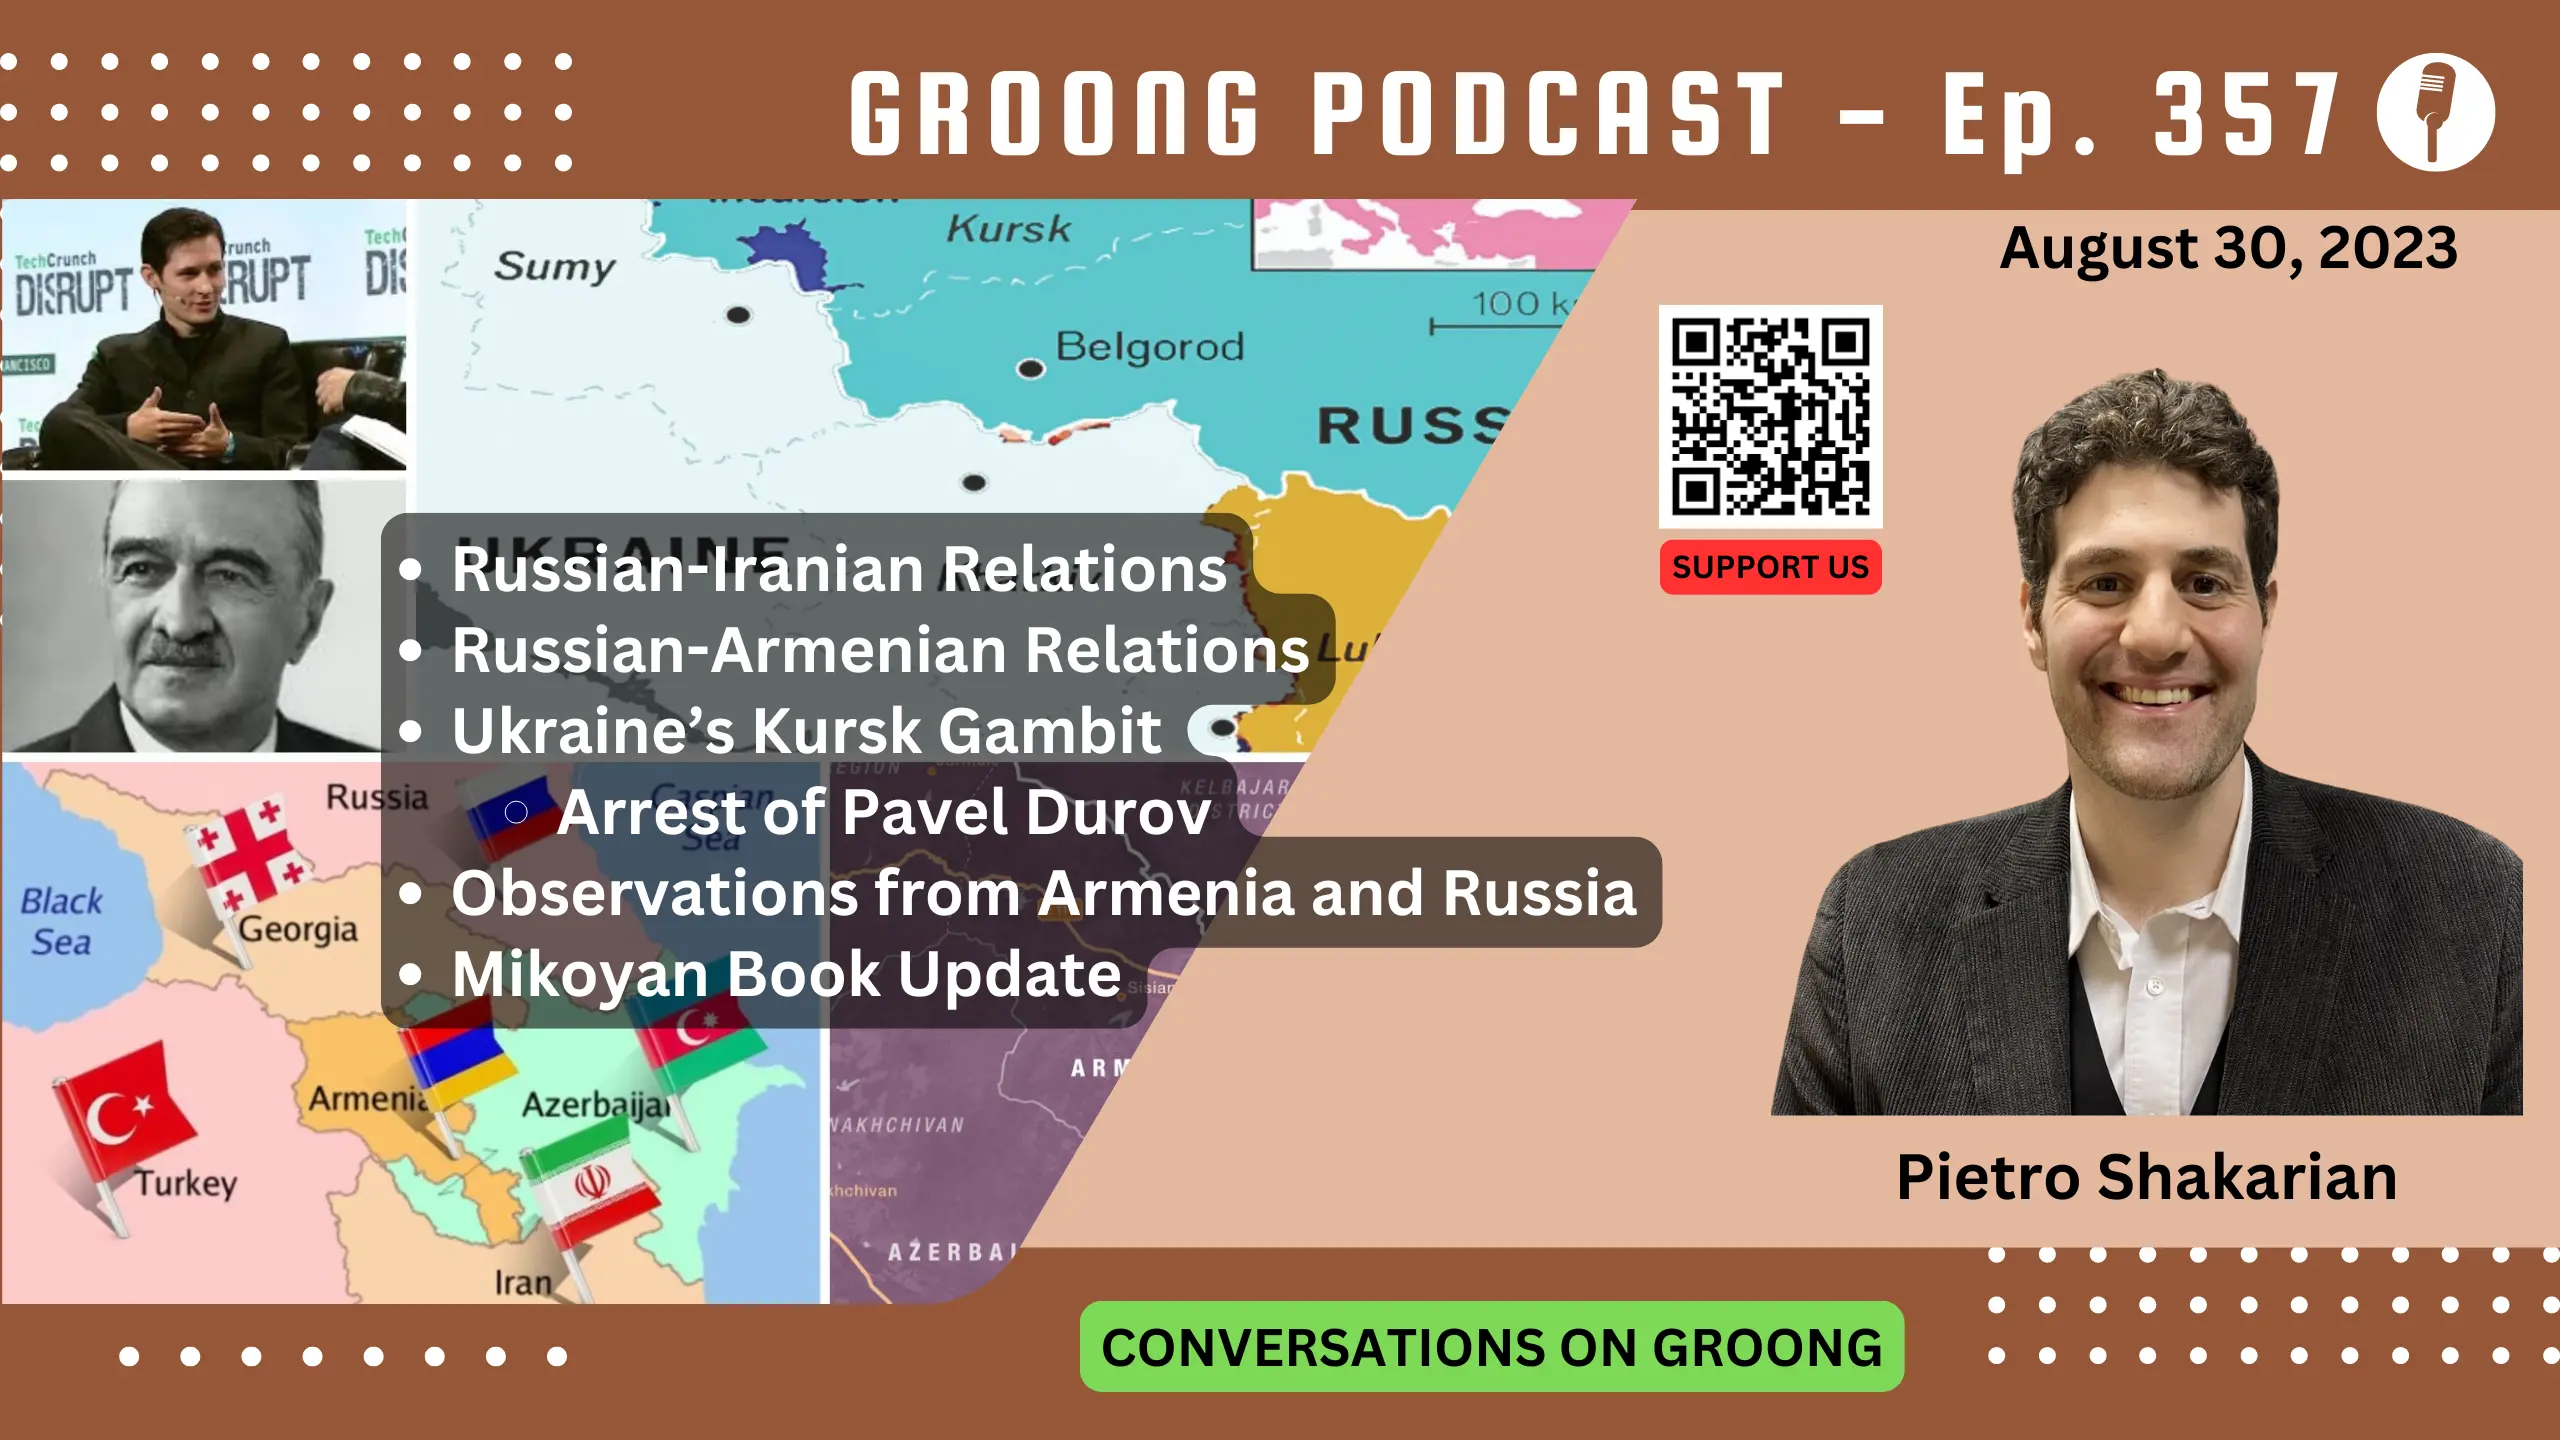
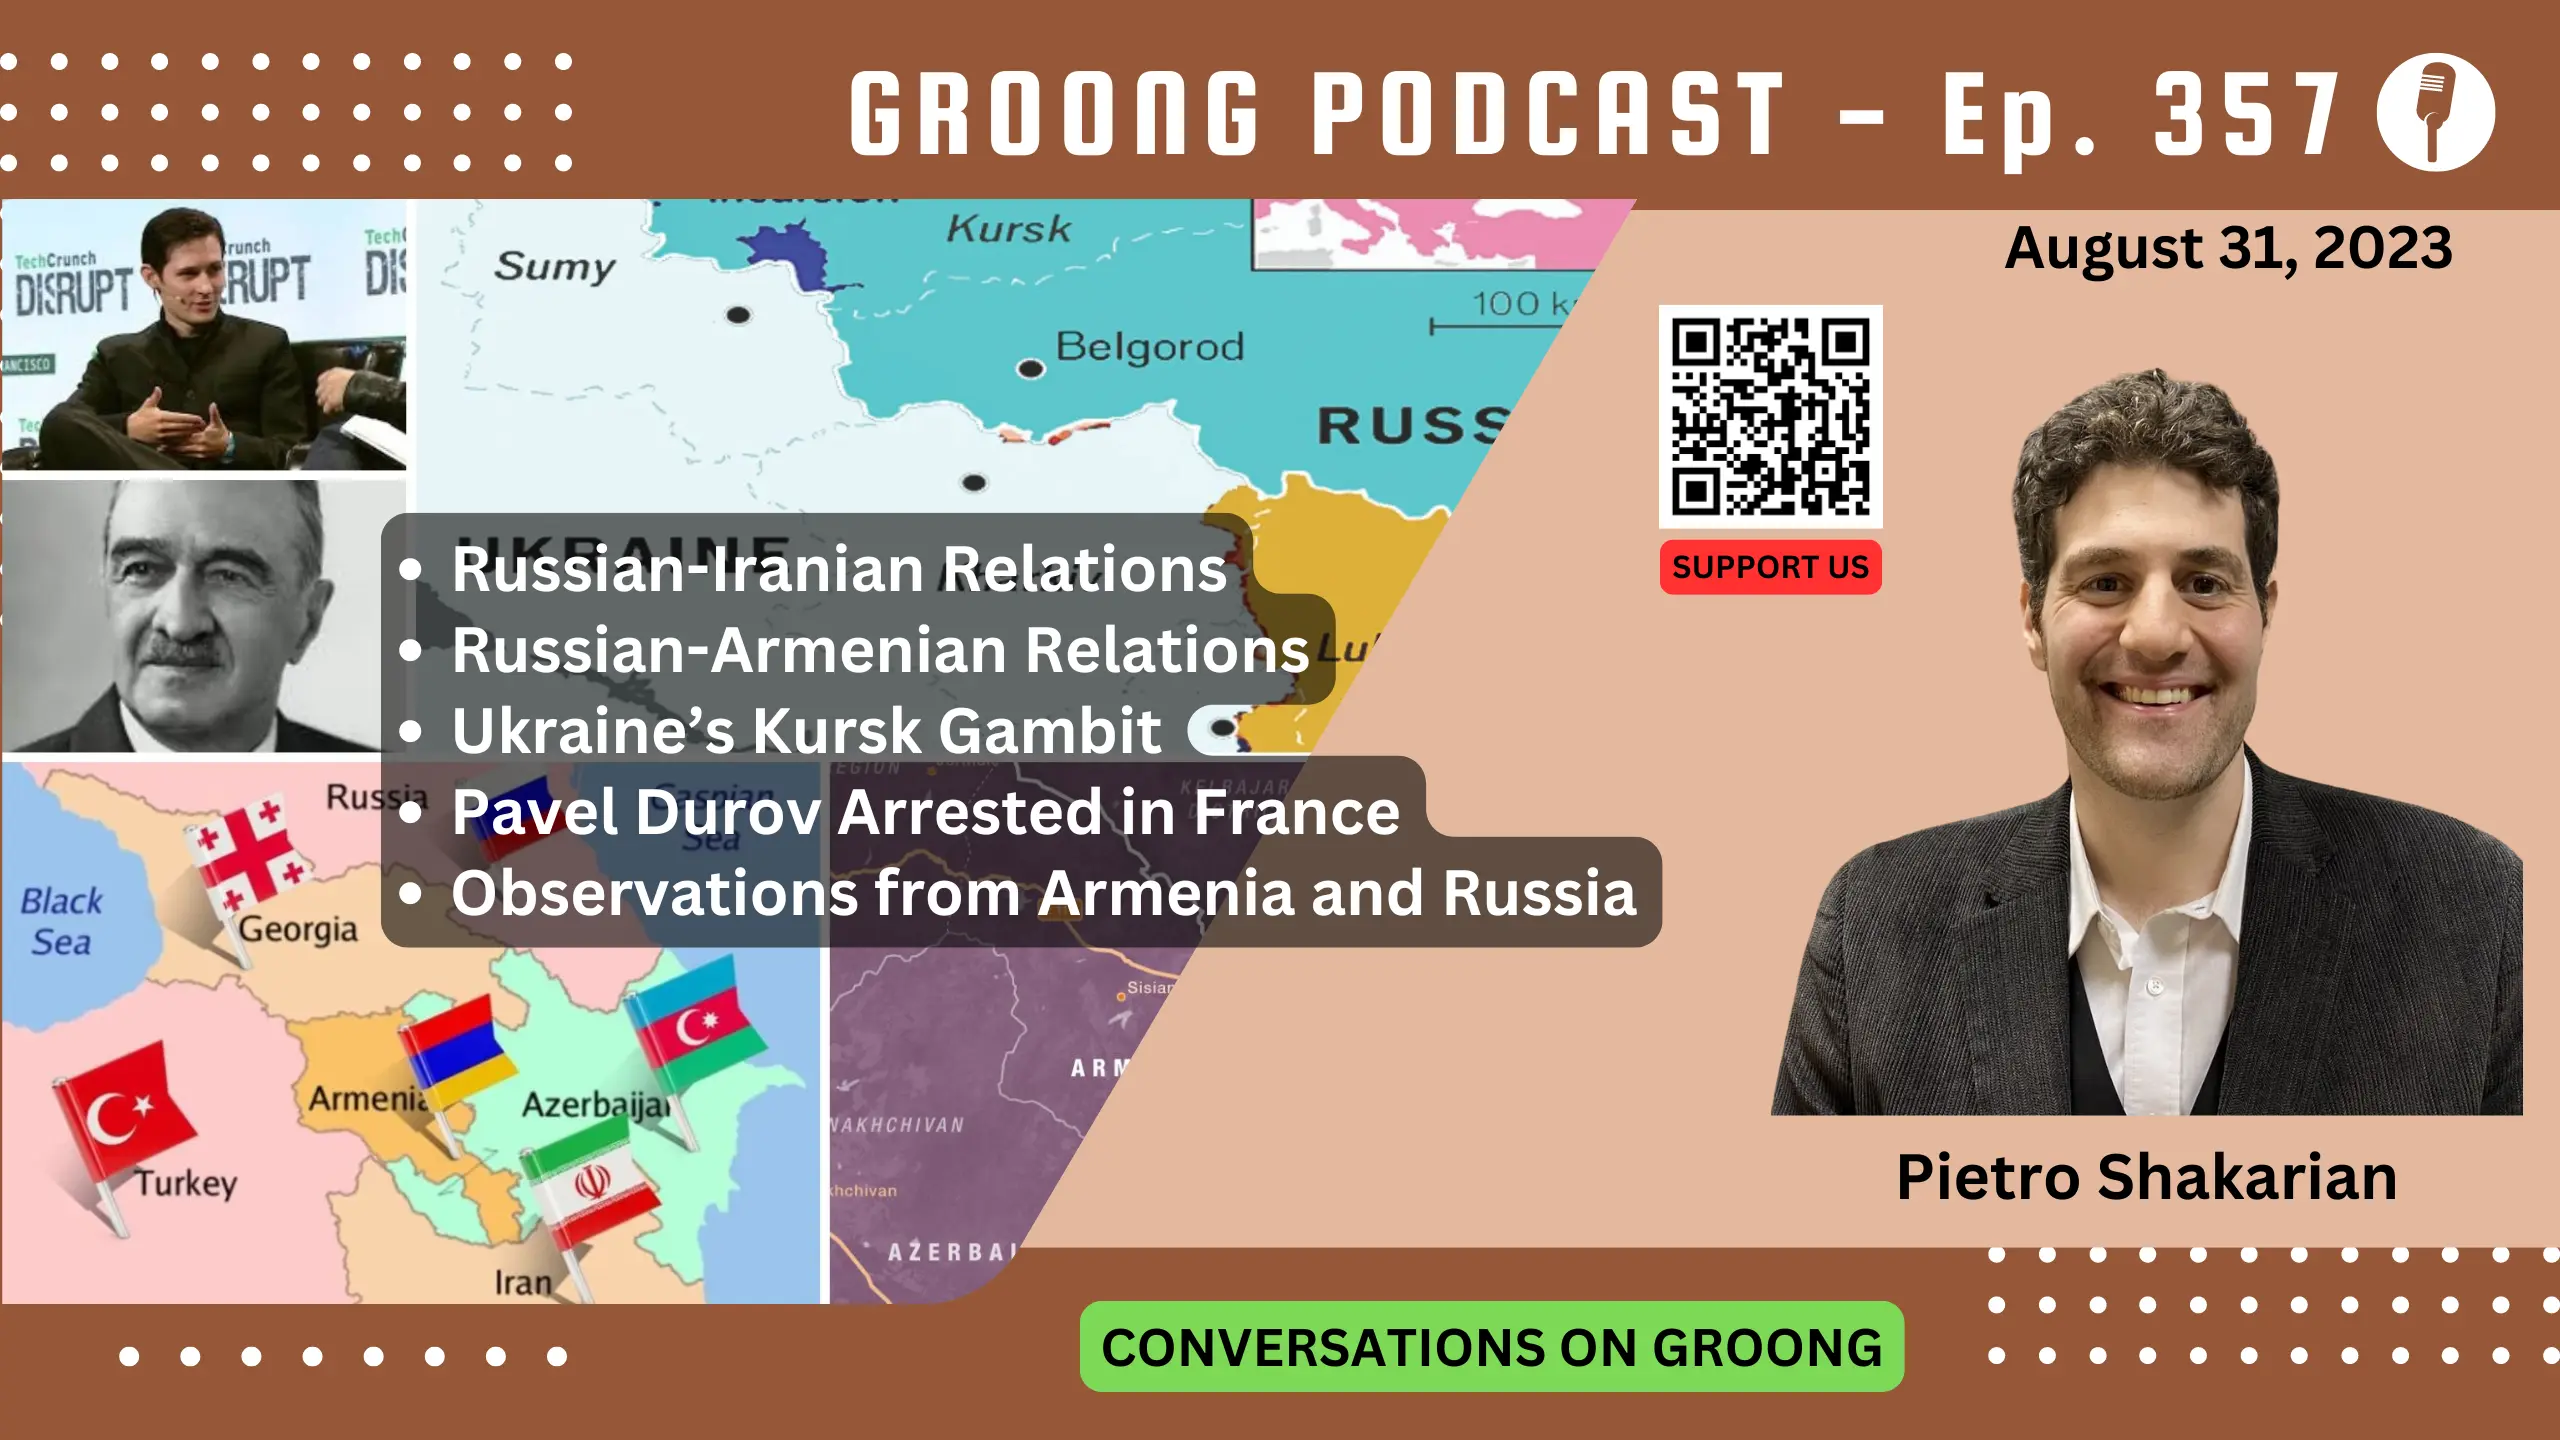
EP 357 content & image updates.

Changed region(s): [[0.1562, 0.5, 0.5625, 0.5938], [0.125, 0.6562, 0.4688, 0.7188], [0.7812, 0.1562, 0.9688, 0.1875]]

diff --git a/content/episode/357-pietro-shakarian-russia-iran-armenia-relations-ukraine-kursk-pavel-durov-syunik-petrozavodsk-anastas-mikoyan.md b/content/episode/357-pietro-shakarian-russia-iran-armenia-relations-ukraine-kursk-pavel-durov-syunik-petrozavodsk-anastas-mikoyan.md
@@ -1,9 +1,9 @@
 +++
-Date = 2024-08-30T01:00:00+04:00
+Date = 2024-08-31T01:00:00+04:00
 upcoming = true
 
-title = "Pietro Shakarian - Russia, Iran, Armenia Relations, Ukraine Kursk Gambit, Travel Notes | Ep 357 - Aug 30, 2024"
-subtitle = "Conversations on Groong - 08/30/2024"
+title = "Pietro Shakarian - Russia, Iran, Armenia Relations, Ukraine Kursk Gambit, Travel Notes | Ep 357 - Aug 31, 2024"
+subtitle = "Conversations on Groong - 08/31/2024"
 
 podcast_file = ""
 podcast_bytes = ""
@@ -37,10 +37,9 @@ Description = """
 #### Topics:
 * Russian-Iranian Relations
 * Russian-Armenian Relations
-* Ukraine and Zelensky’s Kursk Gambit
-    * Arrest of Pavel Durov
+* Ukraine’s Kursk Gambit
+* Pavel Durov Arrested in France
 * Observations from Armenia and Russia
-* Mikoyan Book Update
 
 
 Episode 357 | Recorded: August 28, 2024
@@ -53,4 +52,5 @@ Episode 357 | Recorded: August 28, 2024
 # Wrap-up
 
 That’s our [show](https://podcasts.groong.org/)! We hope you found it useful. Please find us on [Social Media](https://lintr.ee/groong) and follow us everywhere you get your Armenian news.
+
 Thanks to **Laura Osborn** for the music on our podcasts.
